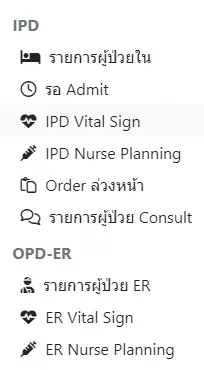
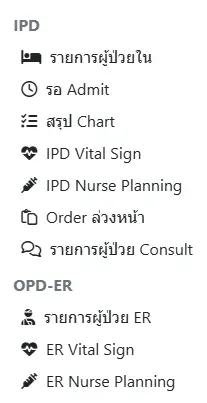
Added post-admit

diff --git a/src/general.md b/src/general.md
@@ -30,6 +30,7 @@
 #### IPD
 * [รายการผู้ป่วยใน](ipd/search-patient.md) : แสดงรายการผู้ป่วยใน ที่ยังไม่จำหน่าย โดยจำแนกตาม `แผนก`, [passcode](ipd/search-patient.html#ward-passcode), `แพทย์เจ้าของไข้`, `แพทย์ผู้ตอบ Consult` และ `HN, AN, ชื่อ-สกุล` ผู้ป่วย
 * [รอ Admit](ipd/pre-admit.md) : แสดงรายการผู้ป่วยที่ `รอ Admit` หรือถูก `ยกเลิก Admit` แล้ว โดยจำแนกตาม `ประเภท`, `แพทย์เจ้าของไข้` และ `HN, AN, ชื่อ-สกุล` ผู้ป่วย
+* [สรุป Chart](ipd/post-admit.md) : แสดงรายการผู้ป่วยที่ `จำหน่ายแล้ว` จำแนกตาม `แผนก`, [passcode](ipd/search-patient.html#ward-passcode), `แพทย์ผู้ Admit`, `แพทย์ผู้ Discharge`, `วันที่จำหน่าย` และ `HN, AN, ชื่อ-สกุล` ผู้ป่วย
 * [Order ล่วงหน้า](ipd/pre-order.md) : แสดงรายการ `ใบ Order` หรือ `Template`(Order สั้นๆ ที่สามารถใช้ซ้ำได้) ที่สร้างไว้ล่วงหน้า ด้วยการ `เพิ่มใบ Order ใหม่`
 * [รายการผู้ป่วย Consult](ipd/consult.md) : แสดงรายการผู้ป่วยที่มีการขอ `คำปรึกษา` เข้ามา โดยจำแนกตาม `แผนกที่รับ Consult`, `แพทย์ผู้รับ Consult`, `แพทย์ผู้ตอบ Consult` และ `HN, AN, ชื่อ-สกุล` ผู้ป่วย
 #### OPD-ER
@@ -40,6 +41,7 @@
 #### IPD
 * [รายการผู้ป่วยใน](ipd/search-patient.md) : แสดงรายการผู้ป่วยใน ที่ยังไม่จำหน่าย โดยจำแนกตาม `แผนก`, [passcode](ipd/search-patient.html#ward-passcode), `แพทย์เจ้าของไข้`, และ `HN, AN, ชื่อ-สกุล` ผู้ป่วย
 * [รอ Admit](ipd/pre-admit.md) : แสดงรายการผู้ป่วยที่ `รอ Admit` หรือถูก `ยกเลิก Admit` แล้ว โดยจำแนกตาม `ประเภท`, `แพทย์เจ้าของไข้` และ `HN, AN, ชื่อ-สกุล` ผู้ป่วย
+* [สรุป Chart](ipd/post-admit.md) : แสดงรายการผู้ป่วยที่ `จำหน่ายแล้ว` จำแนกตาม `แผนก`, [passcode](ipd/search-patient.html#ward-passcode), `แพทย์ผู้ Admit`, `แพทย์ผู้ Discharge`, `วันที่จำหน่าย` และ `HN, AN, ชื่อ-สกุล` ผู้ป่วย
 * [IPD Vital Sign](shared/vital-sign.md) : แสดงรายการผู้ป่วยใน โดยจำแนกตาม `หน่วยงาน` และสามารถบันทึกข้อมูล `Vital Sign` ผู้ป่วยได้
 * [IPD Nurse Planning](ipd/nurse-planning.md) : แสดงรายการ `แผนการพยาบาล` ผู้ปวยใน โดยจำแนกตาม `แผนก`, `วันที่`, `สุถานะ` และ `HN, AN, ชื่อ-สกุล` ผู้ป่วย
 * [Order ล่วงหน้า](ipd/pre-order.md) : แสดงรายการ `ใบ Order` หรือ `Template`(Order สั้นๆ ที่สามารถใช้ซ้ำได้) ที่สร้างไว้ล่วงหน้า ด้วยการ `เพิ่มใบ Order ใหม่`
@@ -56,6 +58,7 @@
 * [IPD Order](ipd/order-pharmacy.md) : แสดงรายการใบสั่งยาผู้ป่วยใน โดยสามารถ Update อัตโนมัติ พร้อมเสียงเตือน โดยจำแนกตาม `แผนก`, `แพทย์เจ้าของไข้`, `ช่วงวันที่ Order` และ `HN, AN, ชื่อ-สกุล` ผู้ป่วย
 * [รายการผู้ป่วยใน](ipd/search-patient.md) : แสดงรายการผู้ป่วยใน ที่ยังไม่จำหน่าย โดยจำแนกตาม `แผนก`, `แพทย์เจ้าของไข้`, `การประเมินข้อมูลแพ้ยาใบแรกรับ` และ `HN, AN, ชื่อ-สกุล` ผู้ป่วย
 * [รอ Admit](ipd/pre-admit.md) : แสดงรายการผู้ป่วยที่ `รอ Admit` หรือถูก `ยกเลิก Admit` แล้ว โดยจำแนกตาม `ประเภท`, `แพทย์เจ้าของไข้` และ `HN, AN, ชื่อ-สกุล` ผู้ป่วย
+* [สรุป Chart](ipd/post-admit.md) : แสดงรายการผู้ป่วยที่ `จำหน่ายแล้ว` จำแนกตาม `แผนก`, `แพทย์ผู้ Admit`, `แพทย์ผู้ Discharge`, `วันที่จำหน่าย` และ `HN, AN, ชื่อ-สกุล` ผู้ป่วย
 * [Order ล่วงหน้า](ipd/pre-order.md) : แสดงรายการ `ใบ Order` หรือ `Template`(Order สั้นๆ ที่สามารถใช้ซ้ำได้) ที่สร้างไว้ล่วงหน้า ด้วยการ `เพิ่มใบ Order ใหม่`
 #### OPD-ER
 * [ER Order](opd-er/order-pharmacy.md) : แสดงรายการใบสั่งยาผู้ป่วยนอก/อุบัตเหตุ โดยสามารถ Update อัตโนมัติ พร้อมเสียงเตือน โดยจำแนกตาม `แพทย์เจ้าของไข้`, `ช่วงวันที่ Order` และ `HN, VN, ชื่อ-สกุล` ผู้ป่วย
@@ -66,6 +69,7 @@
 #### IPD
 * [รายการผู้ป่วยใน](ipd/search-patient.md) : แสดงรายการผู้ป่วยใน ที่ยังไม่จำหน่าย โดยจำแนกตาม `แผนก`, [passcode](ipd/search-patient.html#ward-passcode), `แพทย์เจ้าของไข้` และ `HN, AN, ชื่อ-สกุล` ผู้ป่วย
 * [รอ Admit](ipd/pre-admit.md) : แสดงรายการผู้ป่วยที่ `รอ Admit` หรือถูก `ยกเลิก Admit` แล้ว โดยจำแนกตาม `ประเภท`, `แพทย์เจ้าของไข้` และ `HN, AN, ชื่อ-สกุล` ผู้ป่วย
+* [สรุป Chart](ipd/post-admit.md) : แสดงรายการผู้ป่วยที่ `จำหน่ายแล้ว` จำแนกตาม `แผนก`, [passcode](ipd/search-patient.html#ward-passcode), `แพทย์ผู้ Admit`, `แพทย์ผู้ Discharge`, `วันที่จำหน่าย` และ `HN, AN, ชื่อ-สกุล` ผู้ป่วย
 * [Order ล่วงหน้า](ipd/pre-order.md) : แสดงรายการ `ใบ Order` หรือ `Template`(Order สั้นๆ ที่สามารถใช้ซ้ำได้) ที่สร้างไว้ล่วงหน้า ด้วยการ `เพิ่มใบ Order ใหม่`
 #### OPD-ER
 * [รายการผู้ป่วย ER](opd-er/order-list.md) : แสดงรายการ `ผู้ป่วยนอก/อุบัติเหตุ` ที่เข้าสู่ระบบแล้ว และยังไม่จำหน่าย โดยจำแนกตาม `วันที่บันทึกรายการ`, `วันที่ส่งตรวจ`, `HN`, `QN`, `เตียง`, และ `สถานะ` ผู้ป่วย

diff --git a/src/ipd/README.md b/src/ipd/README.md
@@ -69,11 +69,12 @@
 - [ทางลัดสู่ระบบภายนอก](shared/out-source.md)
 
 ### หลังจำหน่าย
+- [สรุป Chart](post-admit.md)
 - [บันทึกการสรุปเวชระเบียน (In-Patient Summary)](summary.md)
-- [จัดทำเอกสาร](ipd/document.md)
+- [จัดทำเอกสาร](document.md)
 
 ## การสร้างใบ Order ไว้ล่วงหน้า เพื่อ Admit ใน Visit อื่น
-- สร้าง [Order ล่วงหน้า](ipd/pre-order.md) ประเภท `Admit ล่วงหน้า`
+- สร้าง [Order ล่วงหน้า](pre-order.md) ประเภท `Admit ล่วงหน้า`
 - เมื่อถึงวันนัด ให้เปิด `Visit` ตามปกติ
 - ดำเนินการในระบบ [แรกรับ](#แรกรับ)
 - เลือกผู้ป่วย <i class="fa fa-arrow-circle-right"></i> กดปุ่ม [Order](order.md) <i class="fa fa-arrow-circle-right"></i> กดปุ่ม `เลือกใบ Order` <i class="fa fa-arrow-circle-right"></i> กดปุ่ม `ใช้งาน`

diff --git a/src/ipd/post-admit.md b/src/ipd/post-admit.md
@@ -1,0 +1,13 @@
+# สรุป Chart
+
+เพื่อแสดงรายการผู้ป่วยที่ `จำหน่ายแล้ว` พร้อมช่องทางในการดูเวชระเบียนผู้ป่วย, [บันทึกประวัติและตรวจร่างกายแรกรับ](admission-note-dr.md) และ [บันทึกการสรุปเวชระเบียน (In-Patient Summary)](summary.md)
+
+![Post Admit Head](images/post-admit-list.webp)
+
+ตัวกรองในการค้นหา ได้แก่ 
+* `แผนก`
+* [Passcode](search-patient.html#ward-passcode) (เฉพาะเปิดด้วยเมนู `แพทย์`, `พยาบาล`, และ `อื่นๆ`)
+* `แพทย์ผู้ Admit`
+* `แพทย์ผู้ Discharge`
+* `วันที่จำหน่าย` : ระบุช่วงวันที่จำหน่ายที่ต้องการค้นหา
+* `HN, AN, ชื่อ-สกุล` : กรอก HN, AN หรือชื่อ-สกุล ผู้ป่วย อย่างใดอย่างหนึ่ง

diff --git a/src/opd-er/README.md b/src/opd-er/README.md
@@ -20,8 +20,8 @@
 - [บันทึกสัญญาณชีพ](../shared/vital-sign.md)
 - [บันทึกสมดุล (Intake-Output: I/O)](../shared/io.md)
 ### แพทย์ให้ Admit
-- บันทึก `Admit` ใน HOSxP
-- [ระบบงานผู้ป่วยใน (IPD)](../ipd/index.html)
+- [แรกรับ ผู้ป่วยใน](../ipd/index.html#แรกรับ)
+- [ระบบงานผู้ป่วยใน](../ipd/index.html)
 
 ### แพทย์ให้ Discharge ได้
 {{#include main.md:opd-er-discharge}}

diff --git a/src/SUMMARY.md b/src/SUMMARY.md
@@ -16,6 +16,7 @@
     - [รายการผู้ป่วยใน](ipd/search-patient.md)
     - [แฟ้มผู้ป่วยใน](ipd/main.md)
     - [รอ Admit](ipd/pre-admit.md)
+    - [สรุป Chart](ipd/post-admit.md)
     - [Order ล่วงหน้า](ipd/pre-order.md)
     - [IPD Nurse Planning](ipd/nurse-planning.md)
     - [บันทึกประวัติและตรวจร่างกายแรกรับ](ipd/admission-note-dr.md)
